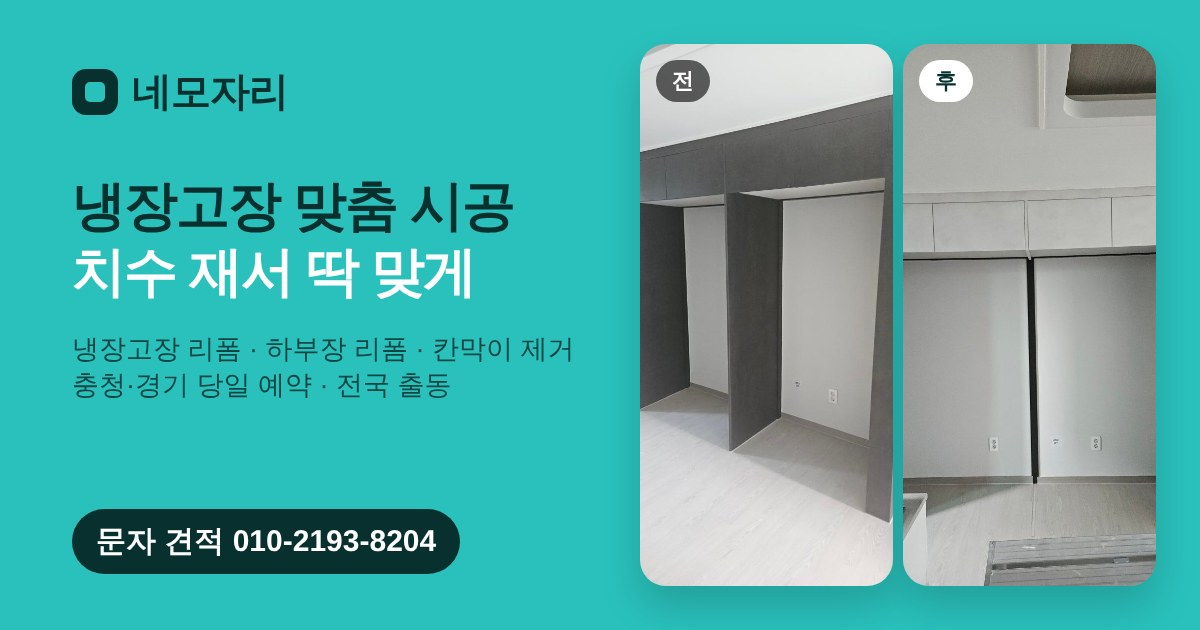
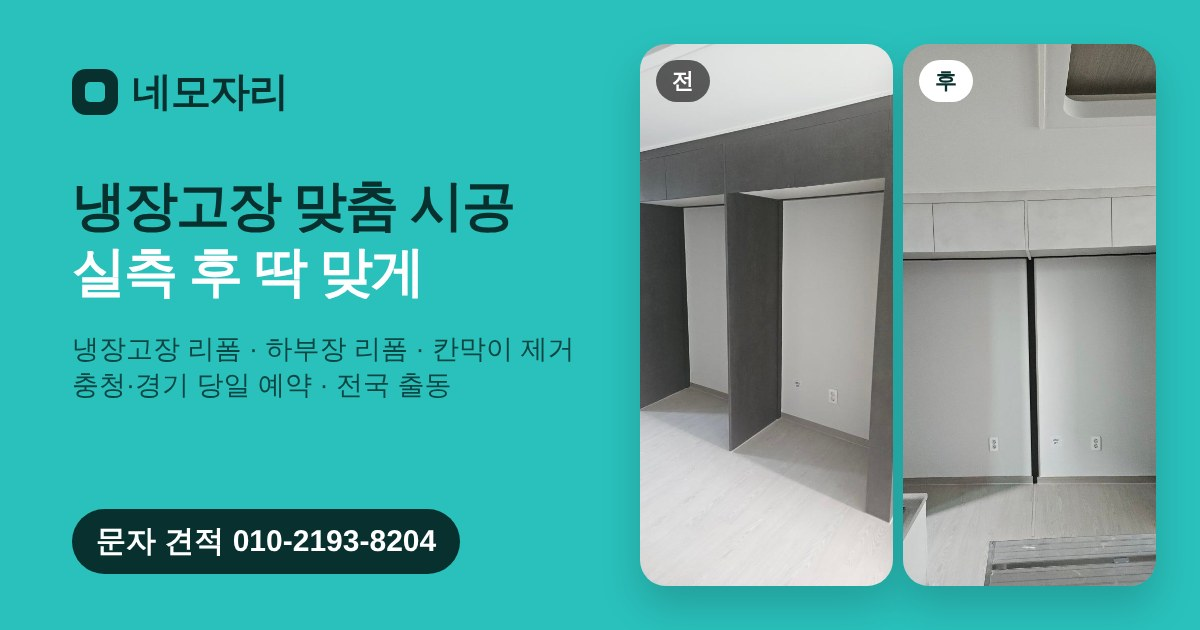
히어로 문구 '실측 후 맞춤으로'로 변경
Claude-Session: https://claude.ai/code/session_013GyiFPWurGJtduekGvYeX3

Changed region(s): [[0.0617, 0.3921, 0.4008, 0.4825]]

diff --git a/index.html b/index.html
@@ -371,7 +371,7 @@ body{padding-bottom:76px}}
    <div class="hero-grid">
     <div>
     <span class="eyebrow rise">냉장고장 맞춤 시공 · 하부장 리폼 전문</span>
-    <h1 class="rise d1">우리 집 냉장고에<br>딱 맞는 냉장고장,<br><mark>치수 재서 맞춤으로</mark></h1>
+    <h1 class="rise d1">우리 집 냉장고에<br>딱 맞는 냉장고장,<br><mark>실측 후 맞춤으로</mark></h1>
     <p class="lead rise d2">새로 짜는 냉장고장 맞춤 시공부터 칸막이만 빼는 리폼까지, 냉장고장은 저희가 가장 많이 하는 일이에요. 식기세척기·로봇청소기 자리를 만드는 하부장 리폼도 함께 해요. 충청·경기 당일 예약, 사진 두세 장이면 견적이 나와요.</p>
     <div class="hero-cta rise d3">
       <a class="btn btn-primary" href="#quote">사진 보내고 견적 받기</a>
